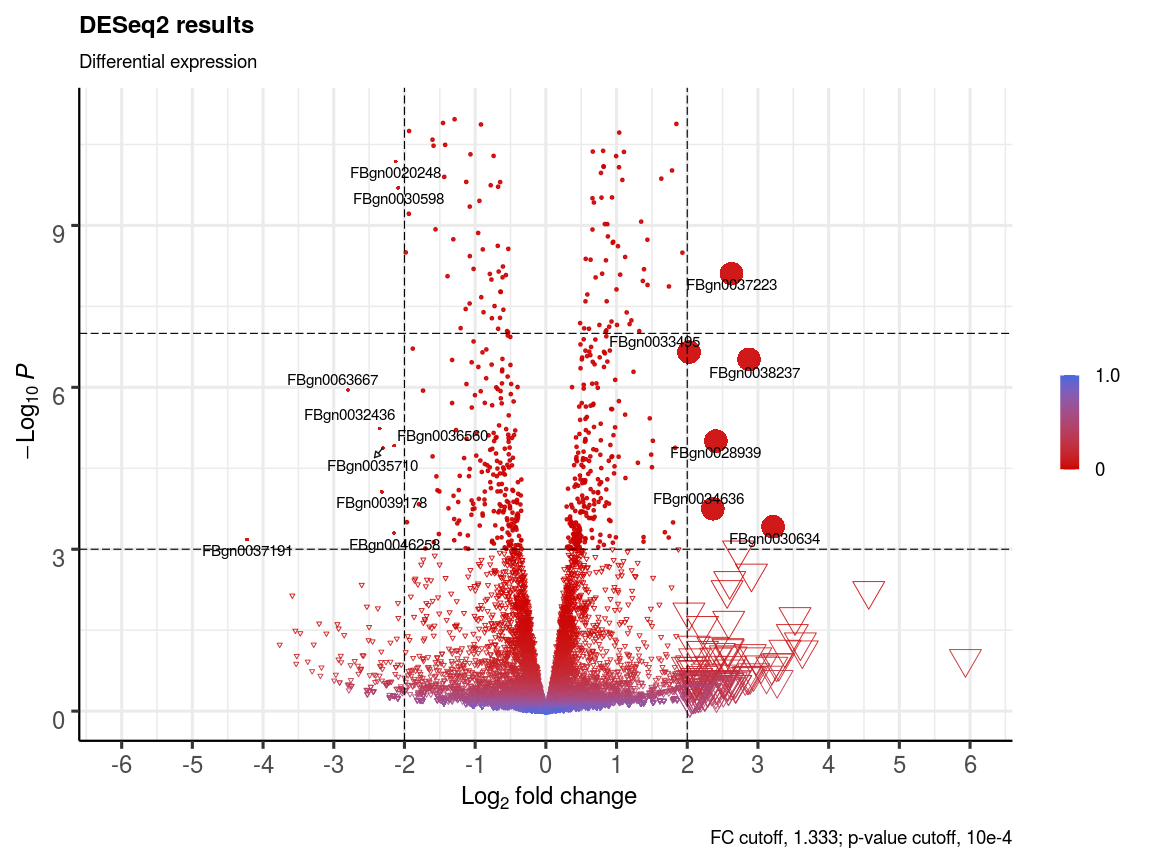
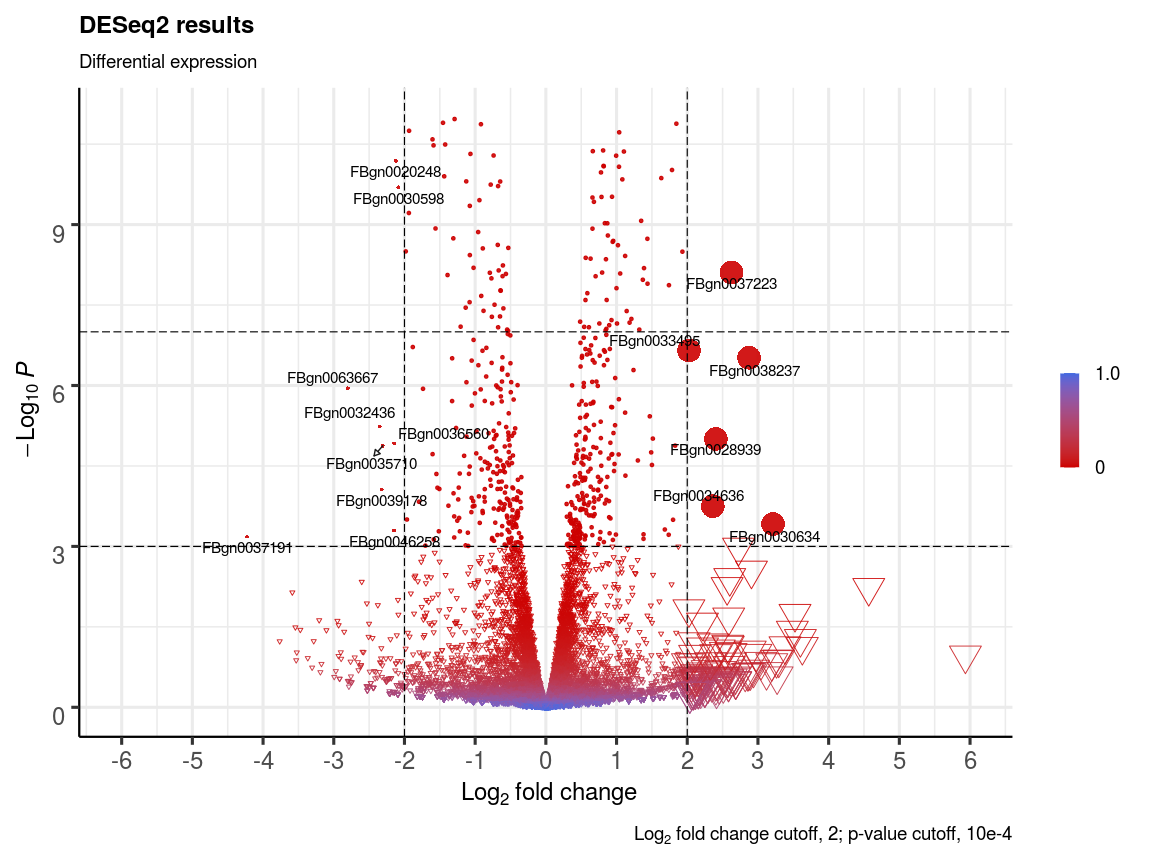
Vignette update

diff --git a/README.md b/README.md
@@ -2,7 +2,7 @@ EnhancedVolcano: publication-ready volcano plots with enhanced colouring
 and labeling
 ================
 Kevin Blighe, Sharmila Rana, Myles Lewis
-2020-05-04
+2020-06-04
 
 # Introduction
 
@@ -707,7 +707,7 @@ the size of just those variables with log<sub>2</sub>FC\>2:
     shape = c(6, 6, 19, 16),
     title = "DESeq2 results",
     subtitle = "Differential expression",
-    caption = "FC cutoff, 1.333; p-value cutoff, 10e-4",
+    caption = bquote(~Log[2]~ "fold change cutoff, 2; p-value cutoff, 10e-4"),
     legendPosition = "right",
     legendLabSize = 14,
     col = c("grey30", "forestgreen", "royalblue", "red2"),
@@ -742,7 +742,7 @@ whichever is selected by *y*, via *colGradient*:
     shape = c(6, 6, 19, 16),
     title = "DESeq2 results",
     subtitle = "Differential expression",
-    caption = "FC cutoff, 1.333; p-value cutoff, 10e-4",
+    caption = bquote(~Log[2]~ "fold change cutoff, 2; p-value cutoff, 10e-4"),
     legendPosition = "right",
     legendLabSize = 14,
     colAlpha = 0.9,
